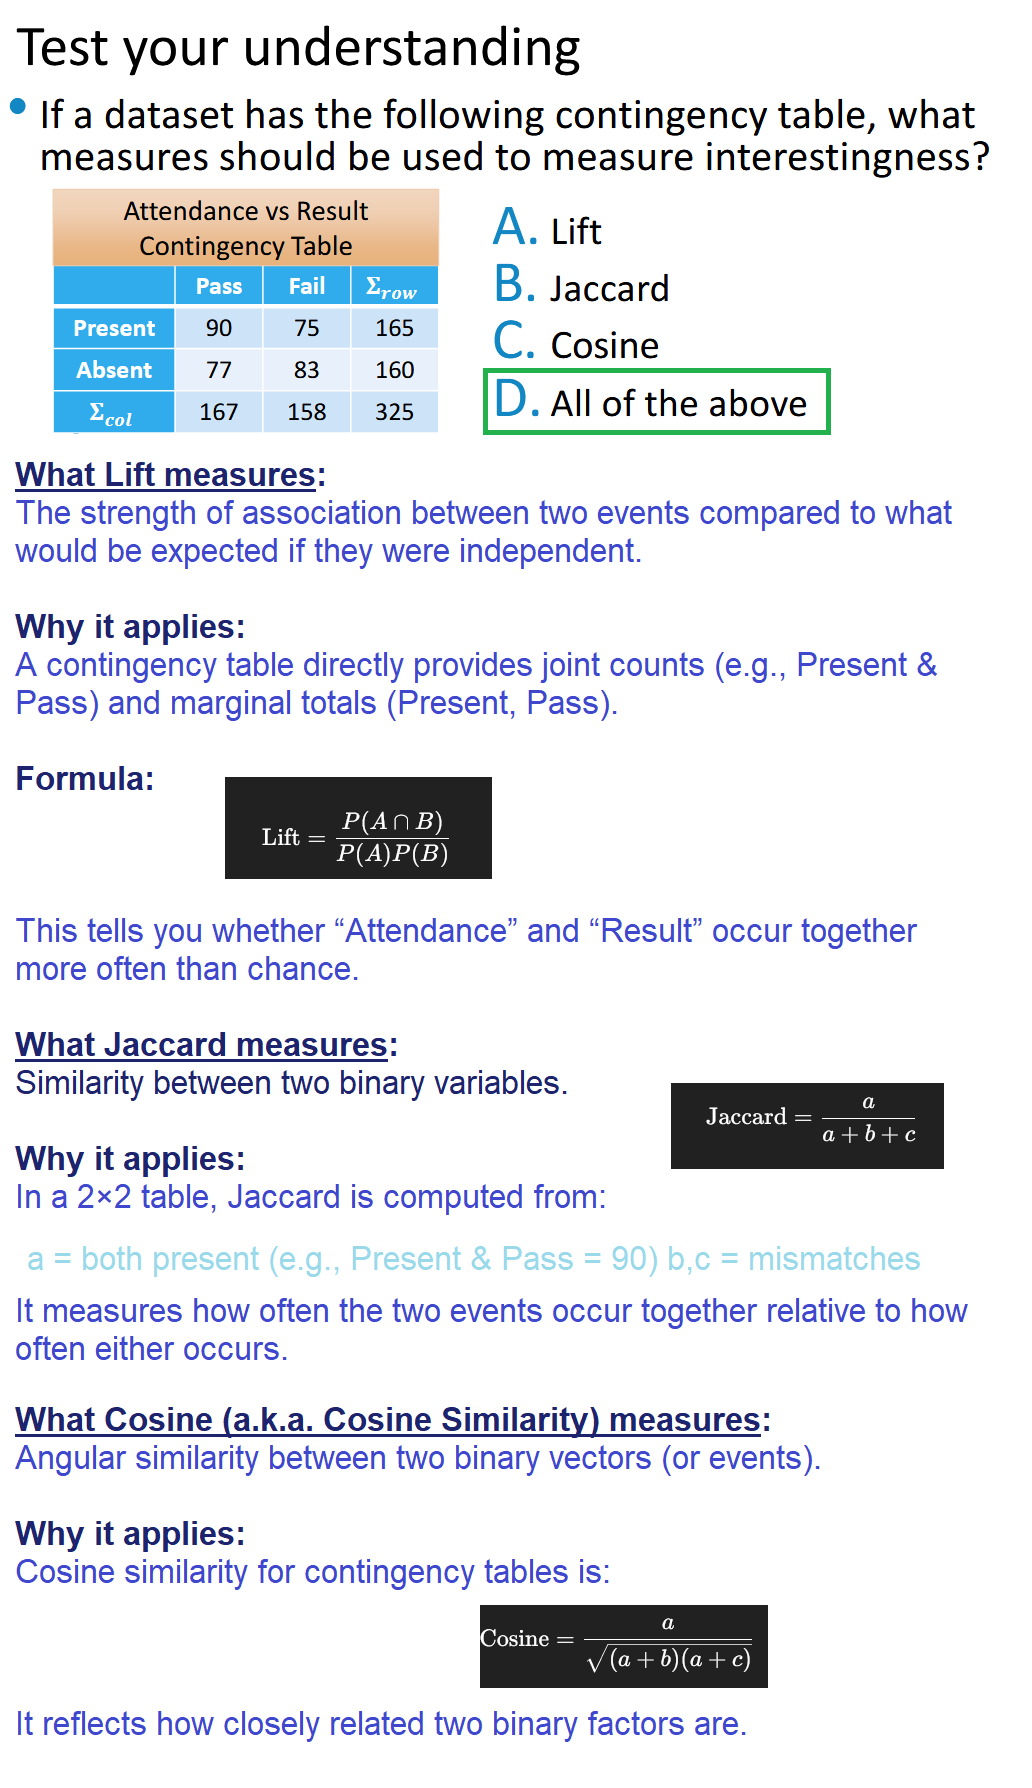
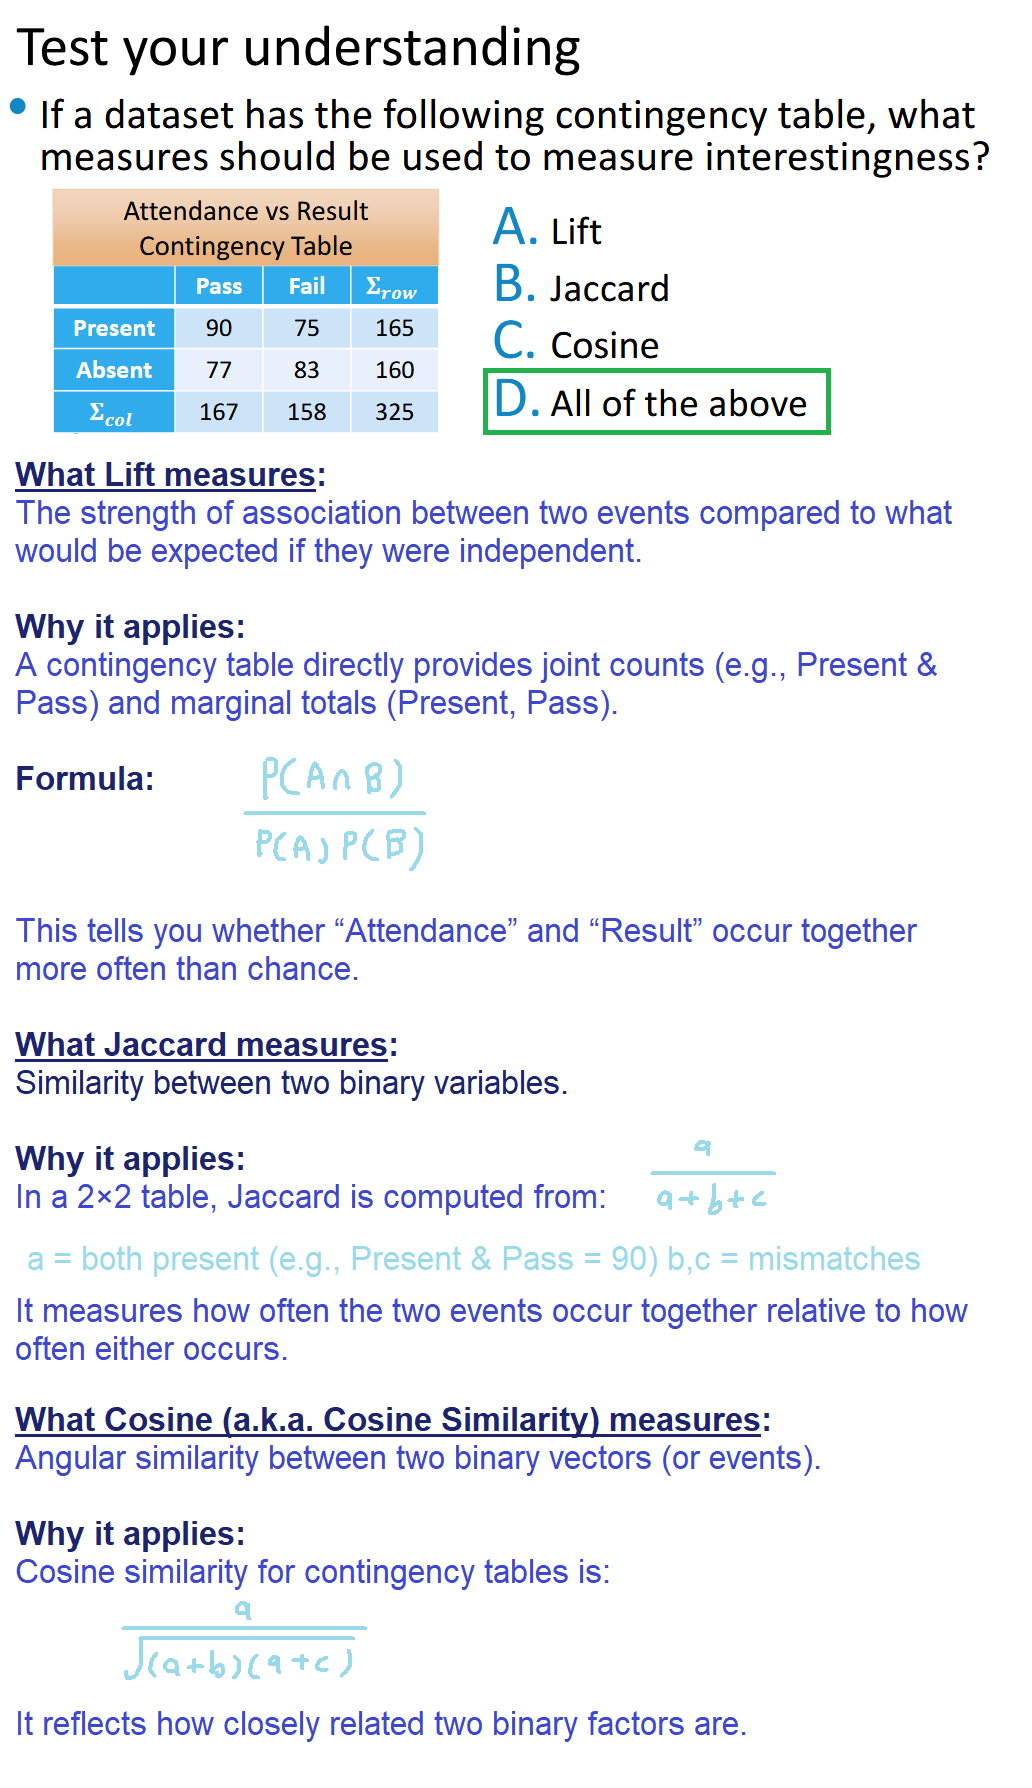
Update TDS 3301 L3 images and logs
Added new images (3, 4, 5, 9, 10) and updated images (2, 8, 11) for TDS 3301 L3. Updated Module 3 title, update logs, and last updated date in index.html to reflect these changes.
[Copilot above]

I think that should be all from me

diff --git a/Update logs.html b/Update logs.html
@@ -278,7 +278,7 @@ img {
       </td>
     </tr>
     <tr>
-      <td>11 Dec 2025</td>
+      <td>12 Dec 2025</td>
       <td> 
         Further work on TDS 3301:
         <ul>
@@ -286,6 +286,16 @@ img {
           <li>Edited images for L1 (4, 5)</li>
           <li>Added images for L1 (6, 7, 8, 9, 10, 11, 12)</li>
           <li>Added images for L3 (1, 2, 6, 7, 8, 11)</li>
+        </ul>      
+      </td>
+    </tr>
+    <tr>
+      <td>13 Dec 2025</td>
+      <td> 
+        Further work on TDS 3301:
+        <ul>
+          <li>Edited images for L3 (2, 8, 11)</li>
+          <li>Added images for L3 (3, 4, 5, 9, 10)</li>
         </ul>      
       </td>
     </tr>

diff --git a/TDS 3301/Module 3.html b/TDS 3301/Module 3.html
@@ -6,7 +6,7 @@
 <link rel="stylesheet" href="../css/module.css">
 <link href="https://fonts.googleapis.com/css?family=Alata | Ibarra+Real+Novaâdiaplay swap" rel="stylesheet">
 <meta name="viewport" content="width=device-width, initial-scale=1.0">
-<title>TDS 3301 - 2</title>
+<title>TDS 3301 - 3</title>
 </head>
 
 <body>

diff --git a/index.html b/index.html
@@ -344,7 +344,7 @@
 		</div>
 
 		<div class="end-text">
-			<p>Copyright © 2023 - 2025 All rights reserved | Last updated <a href="Update logs.html">12 Dec 2025</a>   </p>
+			<p>Copyright © 2023 - 2025 All rights reserved | Last updated <a href="Update logs.html">13 Dec 2025</a>   </p>
 		</div>
 	</section>
 
